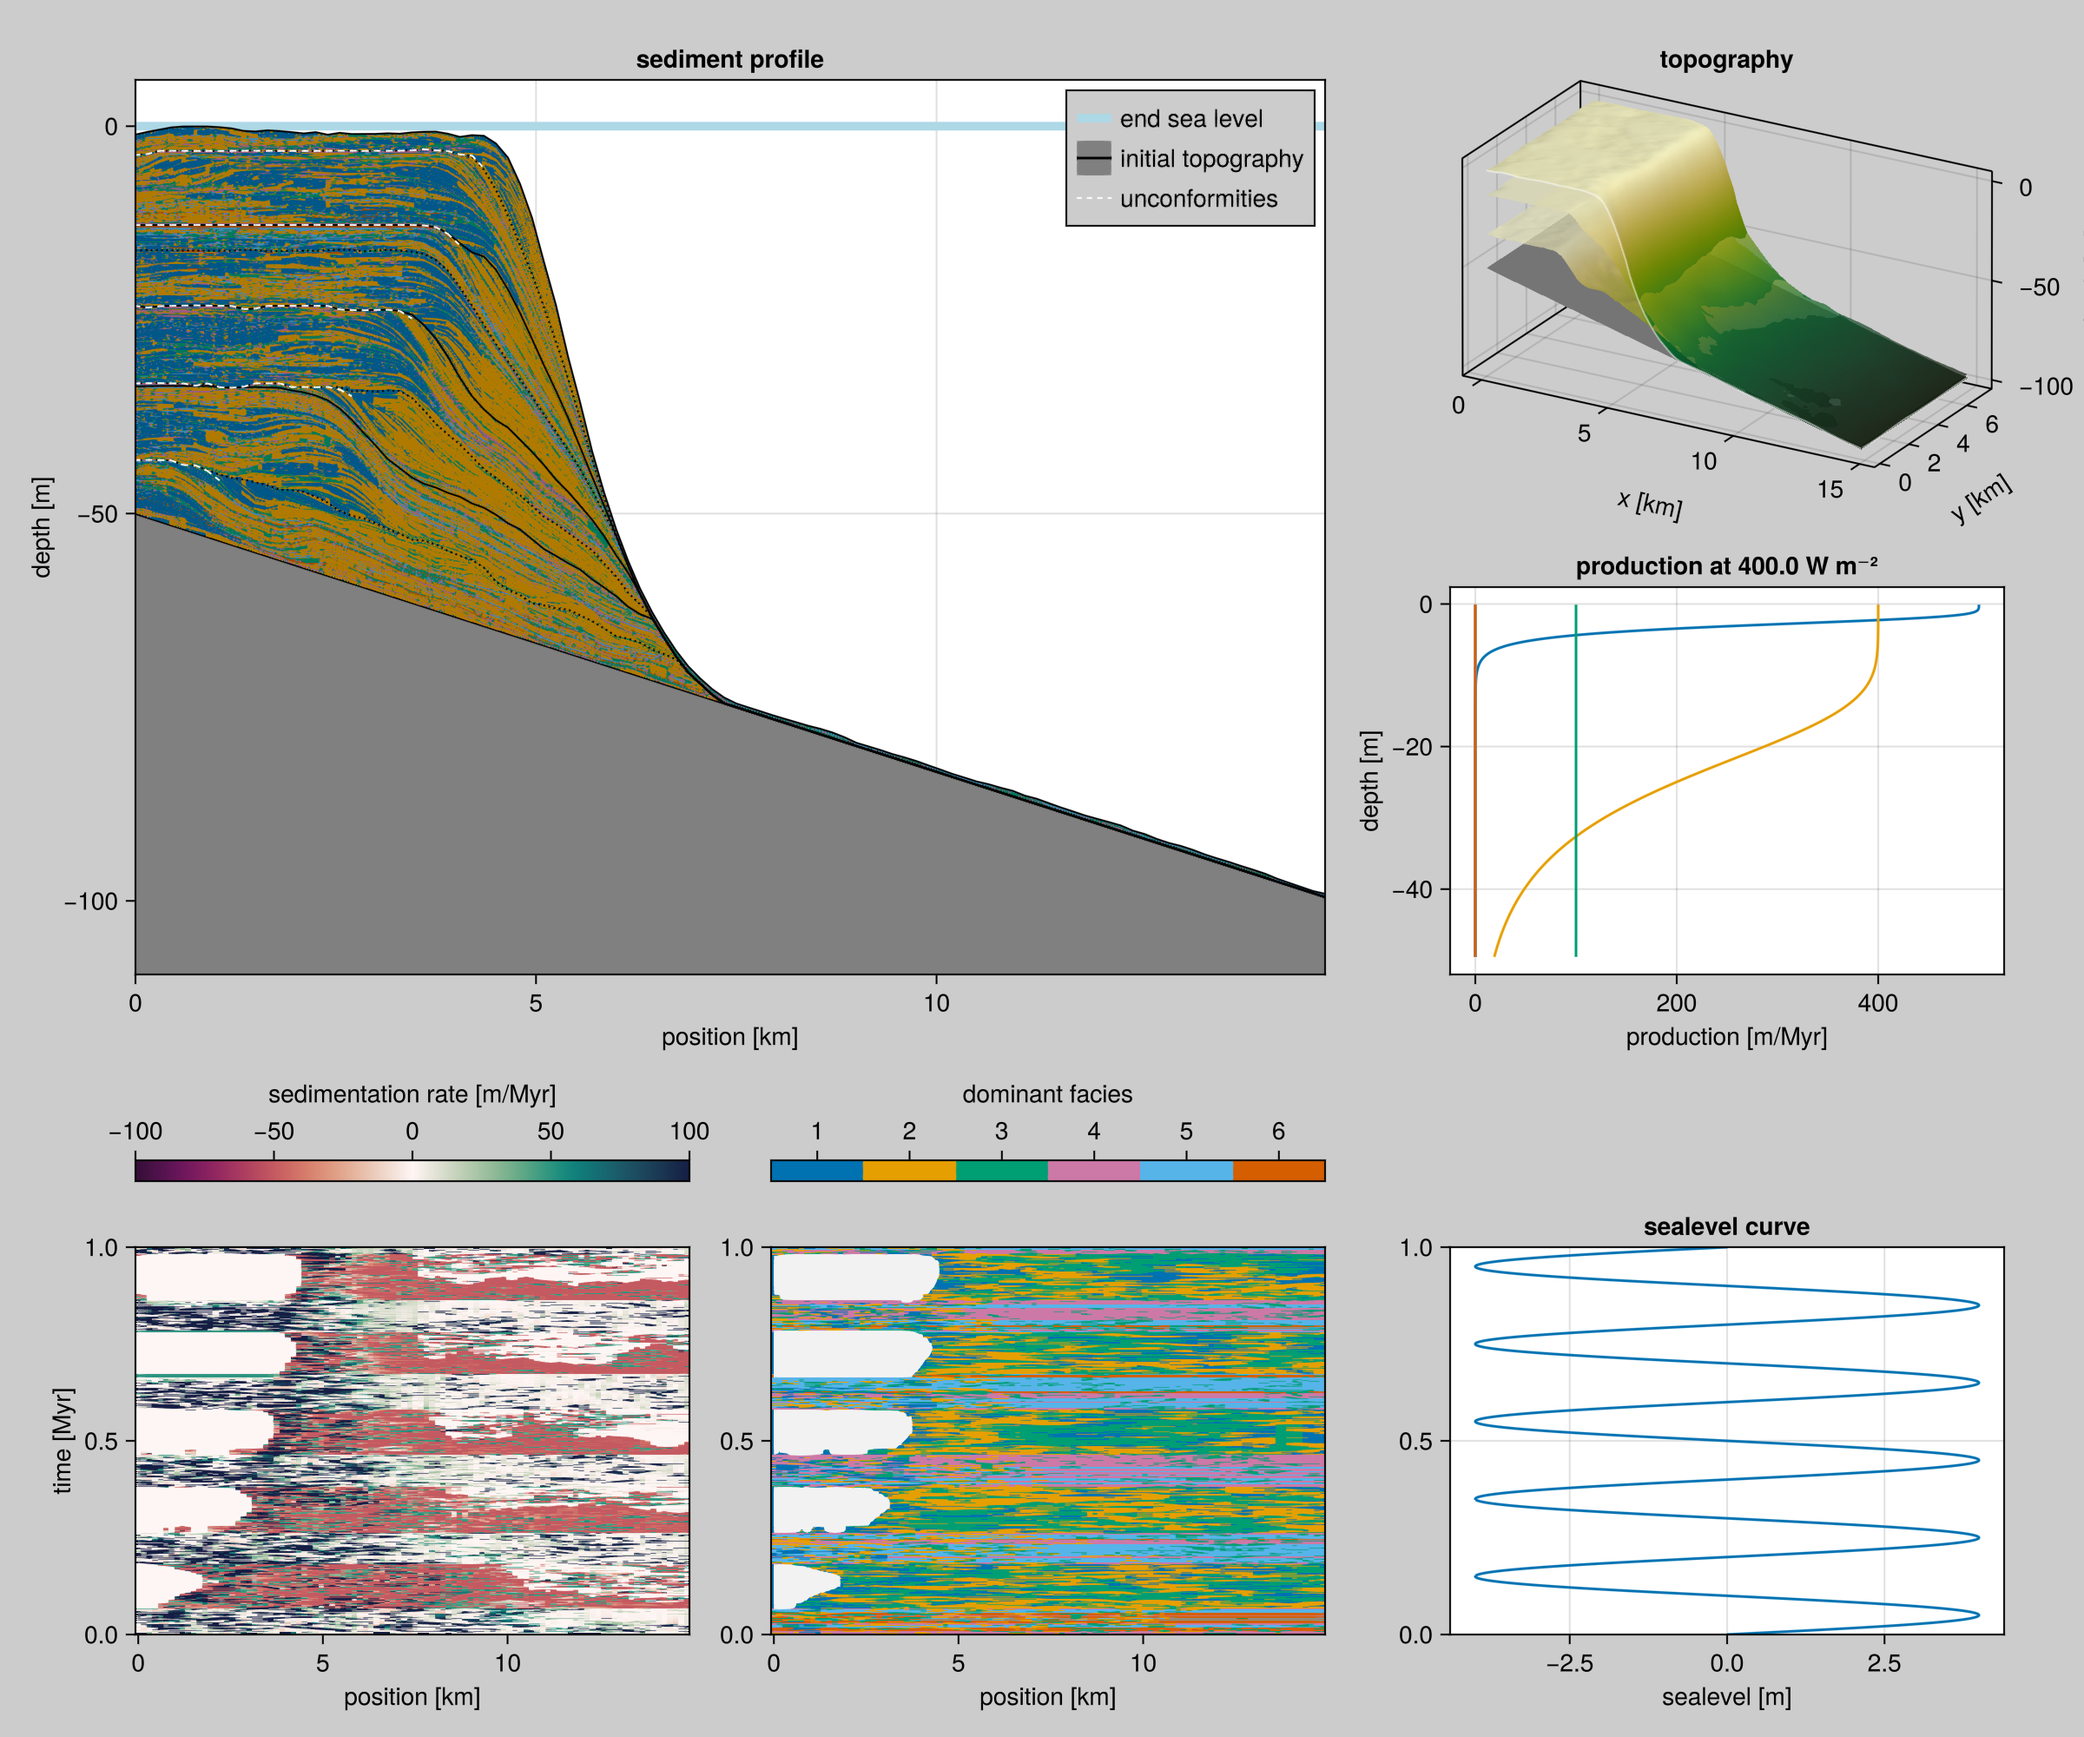
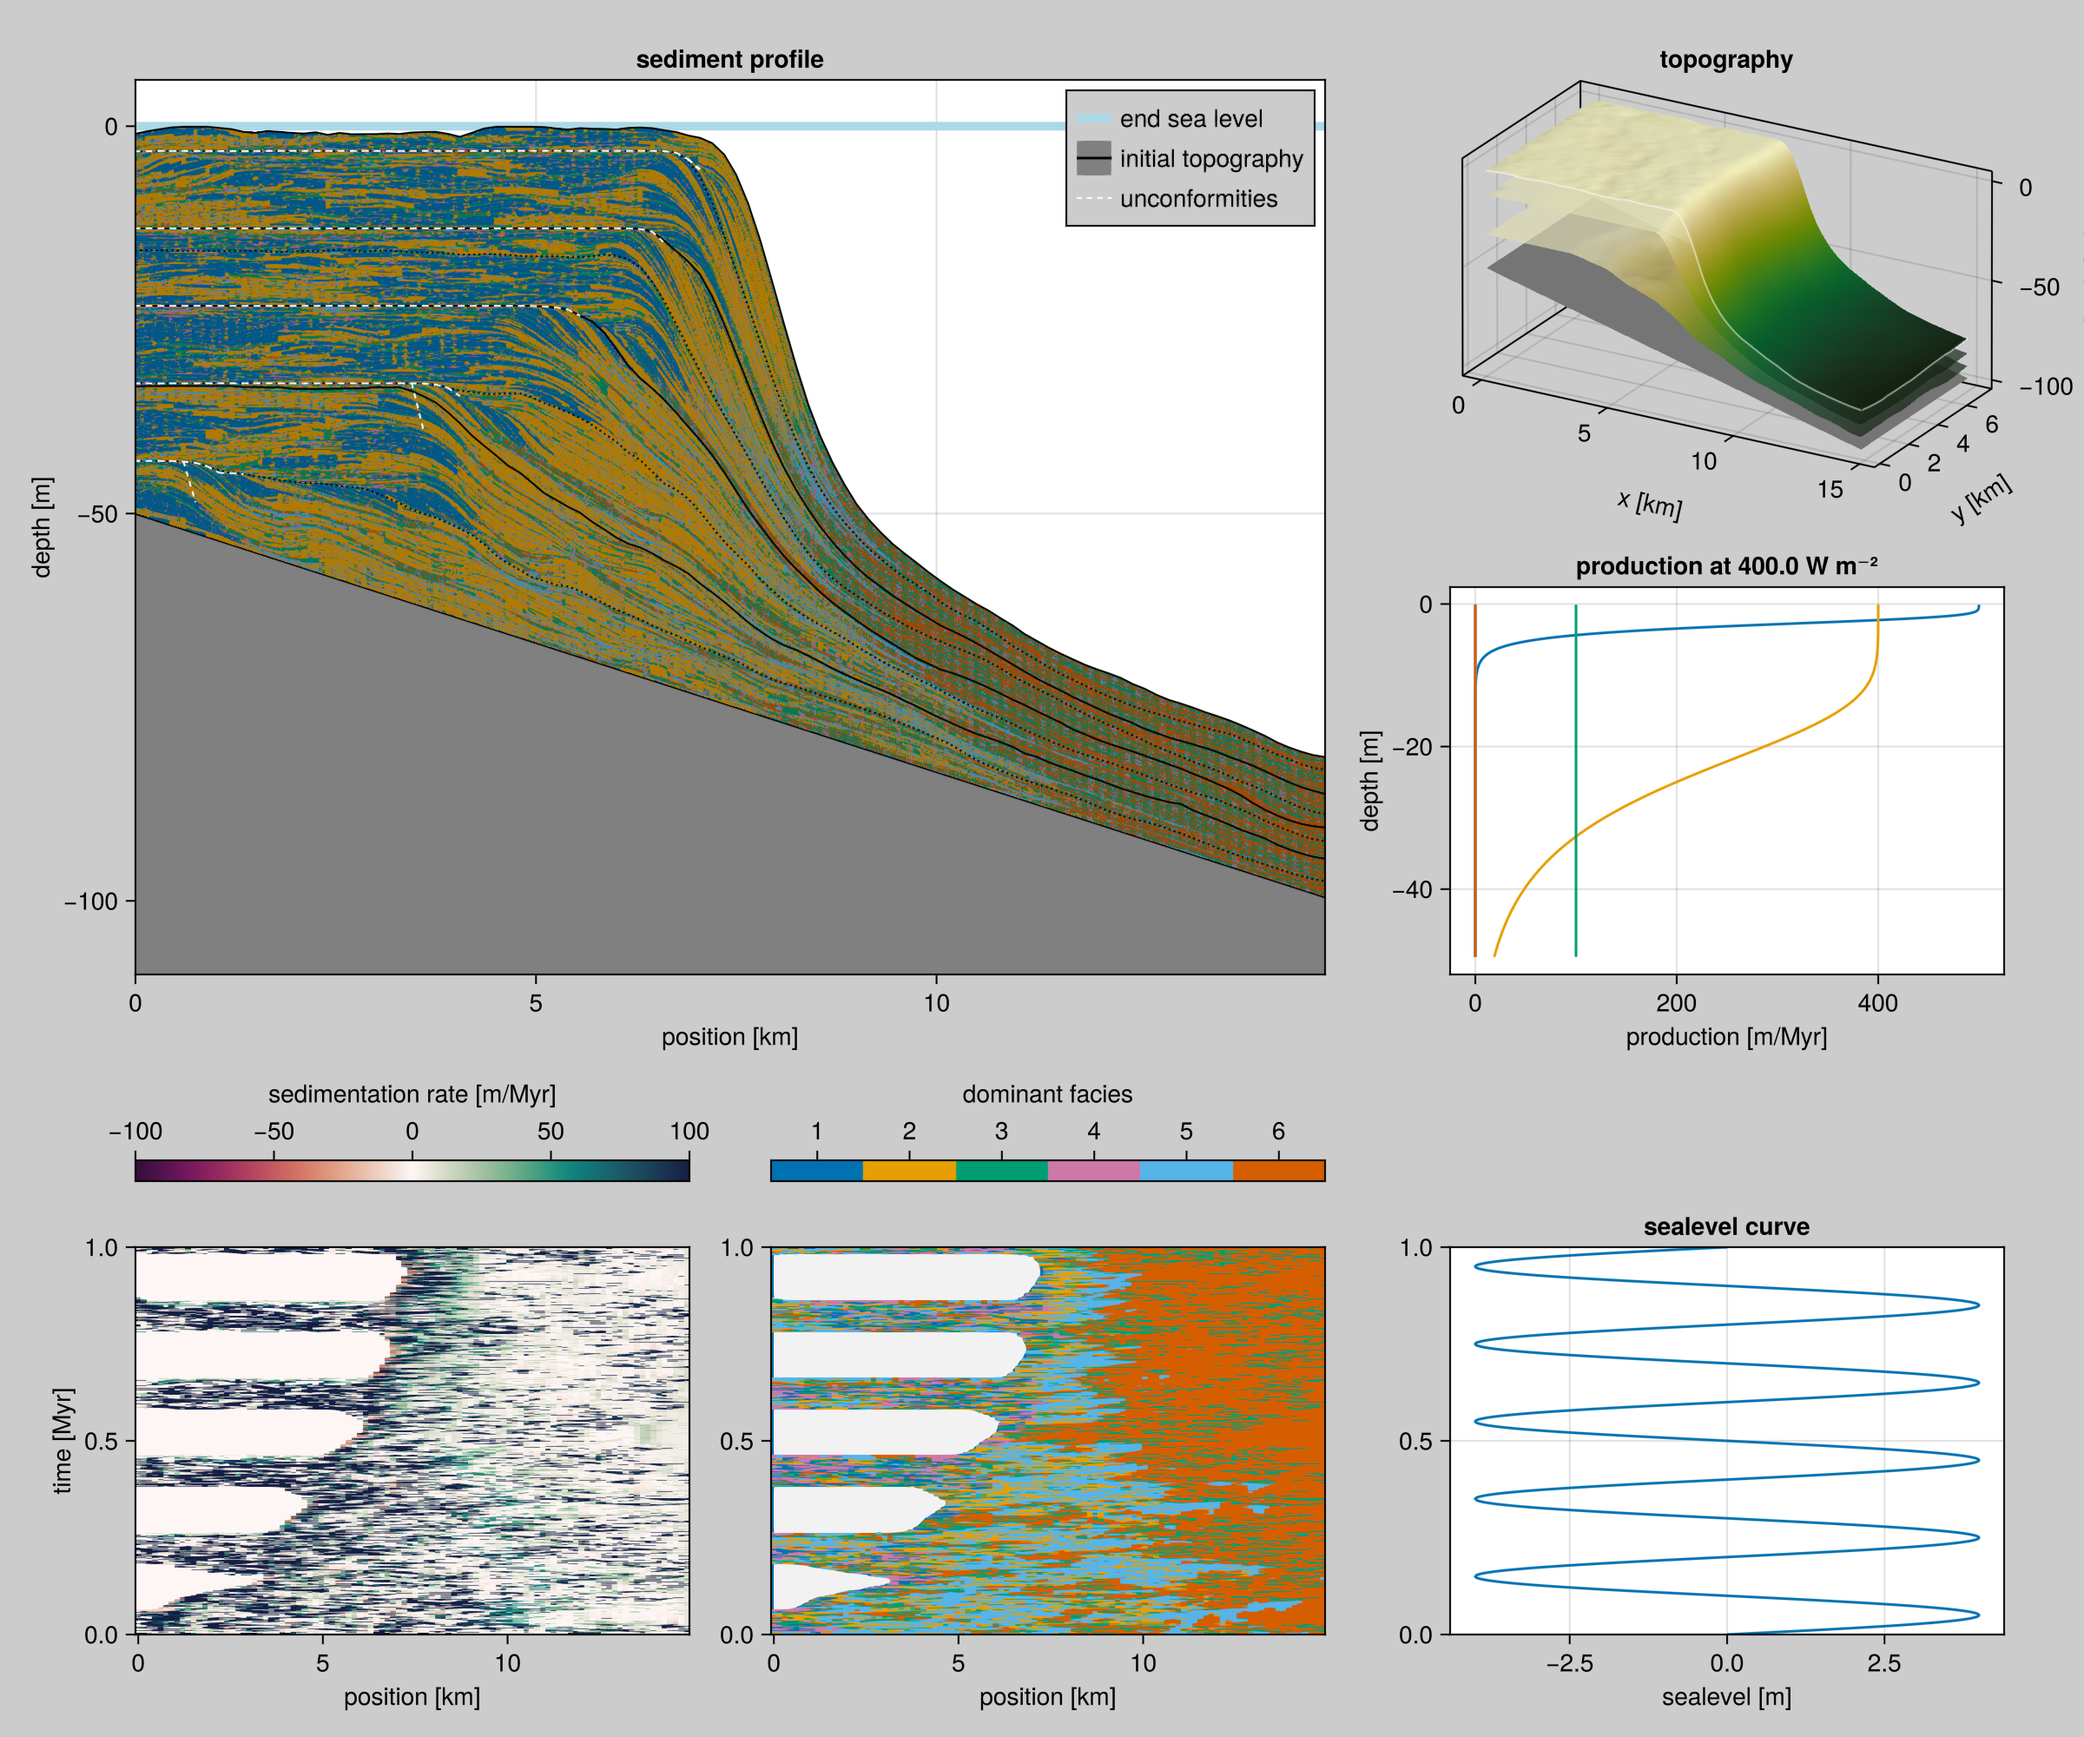
update figs, fix Export tests, entangled for alcap example

diff --git a/docs/src/data-export.md b/docs/src/data-export.md
@@ -56,22 +56,21 @@ const HEADER1 = Header(
     subsidence_rate=10u"m/Myr",
     data_sets=Dict())
 
-const PRODUCTION1 = reshape(
-    hcat(ones(Amount, 10),
-        ones(Amount, 10),
-        cumsum(ones(Amount, 10)) / 5.5)',
-    1, 3, 1, 10)
+const PRODUCTION1 = cat(
+    reshape(zeros(Amount, 3),1,3,1),
+    reshape(hcat(ones(Amount, 10),
+            ones(Amount, 10),
+            cumsum(ones(Amount, 10)) / 5.5)',
+        1, 3, 1, 10); dims=4)
 
-const DISINTEGRATION1 = reshape(
-    hcat(zeros(Amount, 10),
+const DISINTEGRATION1 = cat(
+    reshape(zeros(Amount, 3),1,3,1),
+    reshape(hcat(zeros(Amount, 10),
         1:10 .|> (x -> x < 4 || x > 6 ? 0.0u"m" : 2.0u"m"),
-        zeros(Amount, 10))',
-    1, 3, 1, 10)
+        zeros(Amount, 10))', 1, 3, 1, 10); dims=4)
 
-const ELEVATION1 = cat(
-    [0.0, 0.0, 0.0]u"m",
-    cumsum(PRODUCTION1 .- DISINTEGRATION1; dims=4)[1, :, :, :];
-    dims=3)
+const ELEVATION1 = 
+    cumsum(PRODUCTION1 .- DISINTEGRATION1; dims=4)[1, :, :, :]
 
 const DATA1 = DataVolume(
     slice=(:,:),
@@ -202,9 +201,9 @@ The stratigraphic column should sum to the age-depth model.
 
 ``` {.julia #export-test}
 @testset "SC sum equals ADM" begin
-    @test [0.0u"m"; cumsum(sc.sc_1_f1)] ≈ adm.adm_1
-    @test [0.0u"m"; cumsum(sc.sc_2_f1)] ≈ adm.adm_2
-    @test [0.0u"m"; cumsum(sc.sc_3_f1)] ≈ adm.adm_3
+    @test cumsum(sc.sc_1_f1) ≈ adm.adm_1
+    @test cumsum(sc.sc_2_f1) ≈ adm.adm_2
+    @test cumsum(sc.sc_3_f1) ≈ adm.adm_3
 end
 ```
 

diff --git a/docs/src/models/alcap.md b/docs/src/models/alcap.md
@@ -68,7 +68,8 @@ const INPUT = ALCAP.Input(
     sea_level=t -> AMPLITUDE * sin(2π * t / PERIOD),
     subsidence_rate=50.0u"m/Myr",
     disintegration_rate=50.0u"m/Myr",
-    disintegration_transfer=p->[0.0u"m", 0.0u"m", 0.0u"m", p[1]+p[4], p[2]+p[5], p[3]+p[6]],
+    disintegration_transfer=p->stack((0.0.*p[1,:,:], 0.0.*p[2,:,:], 0.0.*p[3,:,:],
+                               p[1,:,:].+p[4,:,:], p[2,:,:].+p[5,:,:], p[3,:,:].+p[6,:,:]), dims=1),
     insolation=400.0u"W/m^2",
     sediment_buffer_size=50,
     depositional_resolution=0.5u"m",
